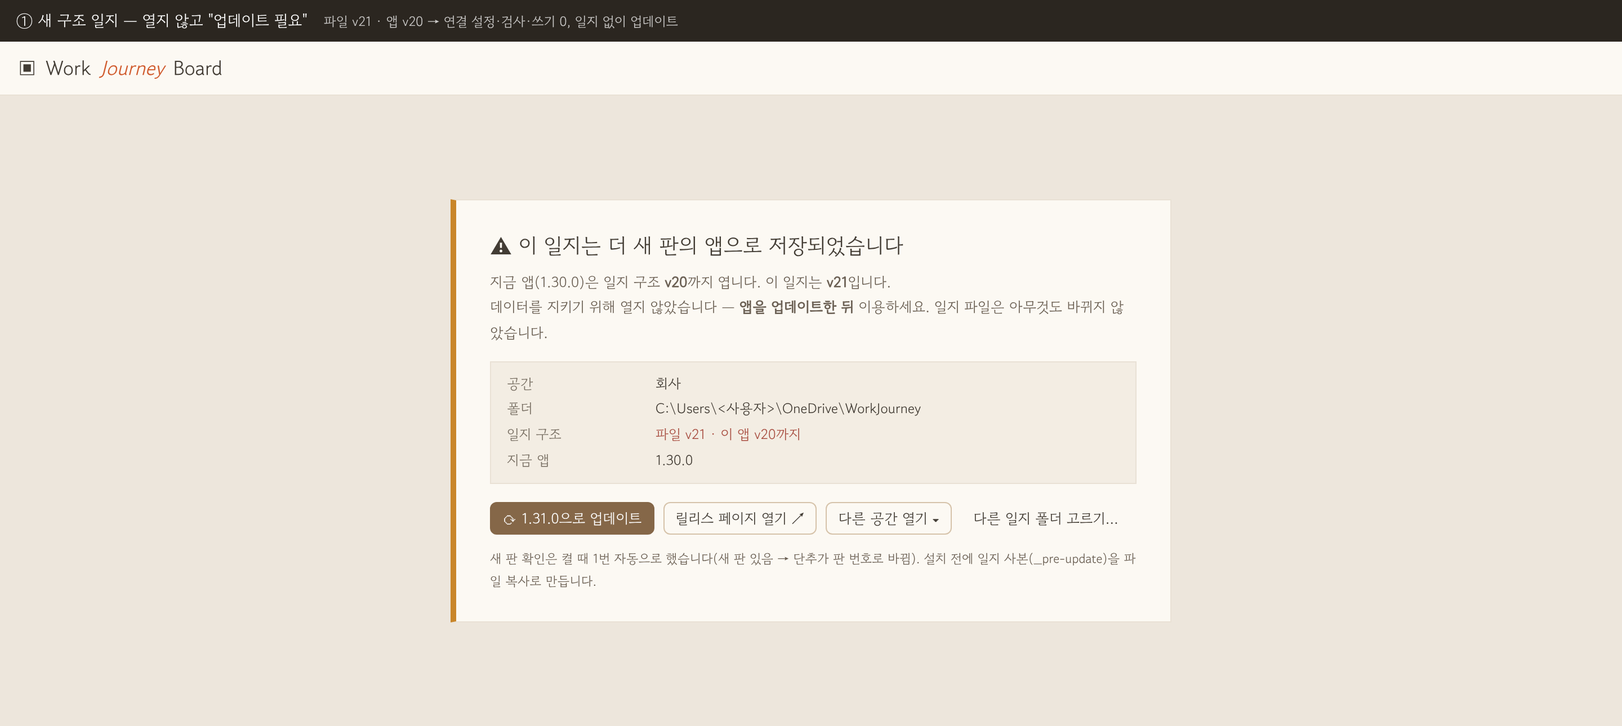
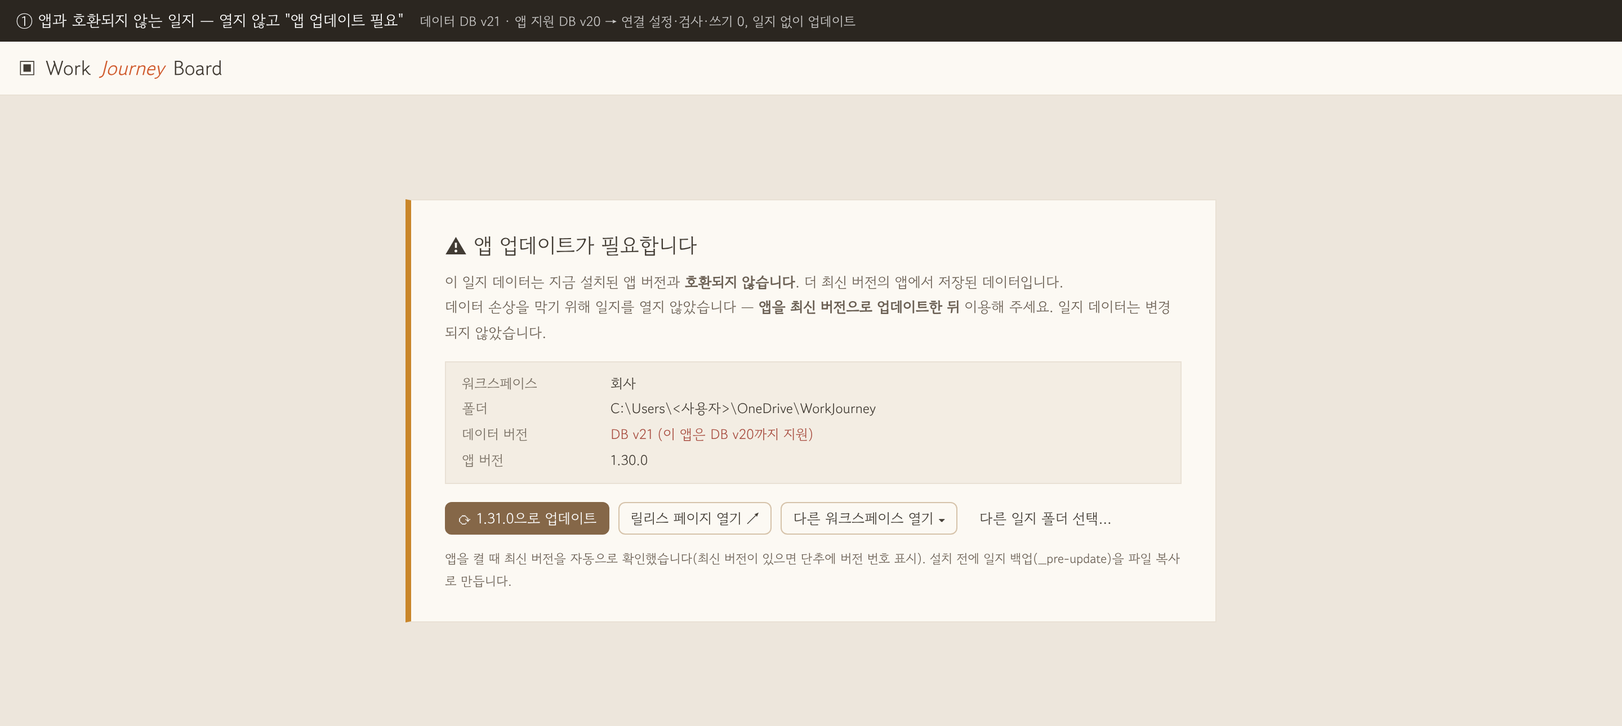
docs(v22): 최종 설계 확정 — 호환 안내 문구·칸반 제목 제거·시작 시간/마감일 별도 행·업무 거르기(전체/1개/여러 개) 시안 ⑧
Claude-Session: https://claude.ai/code/session_01CEskZPS32ZwwyCurFibJtk

diff --git a/docs/mockups/v22/v22.html b/docs/mockups/v22/v22.html
@@ -134,10 +134,10 @@
   .catband { display: flex; align-items: center; gap: 10px; padding: 10px 12px; border-left: 6px solid var(--c2); background: #fdeee6; font-size: 16px; margin: -4px 0 12px; }
   .catband .dotb { width: 11px; height: 11px; border-radius: 50%; background: var(--c2); }
   .catband small { margin-left: auto; color: var(--t3); font-size: 12px; }
-  .fieldbtn { border: 1px solid var(--line2); background: #fff; border-radius: 6px; padding: 4px 10px; font-size: 12.5px; color: var(--t2); display: inline-flex; gap: 6px; align-items: center; }
+  .fieldbtn { white-space: nowrap; border: 1px solid var(--line2); background: #fff; border-radius: 6px; padding: 4px 10px; font-size: 12.5px; color: var(--t2); display: inline-flex; gap: 6px; align-items: center; }
   .fieldbtn.has { border-color: #e0b070; background: #fdf3e0; color: #8a5a12; }
   .lockscr { background: var(--page); display: flex; align-items: center; justify-content: center; height: 560px; }
-  .lockcard { background: var(--card); border: 1px solid var(--line); border-left: 5px solid #c9862a; width: 640px; padding: 26px 30px; }
+  .lockcard { background: var(--card); border: 1px solid var(--line); border-left: 5px solid #c9862a; width: 720px; padding: 26px 30px; }
   .lockcard h2 { margin: 0 0 8px; font-size: 19px; font-weight: 400; }
   .lockcard p { color: var(--t2); margin: 0 0 14px; line-height: 1.7; }
   .kv { display: grid; grid-template-columns: 120px 1fr; gap: 4px 12px; font-size: 12.5px; background: var(--sub); border: 1px solid var(--line); padding: 10px 14px; margin-bottom: 16px; }
@@ -164,17 +164,17 @@
 <body>
 <!-- ① 업데이트 필요 -->
 <div class="shot" id="s1">
-  <div class="cap">① 새 구조 일지 — 열지 않고 "업데이트 필요" <small>파일 v21 · 앱 v20 → 연결 설정·검사·쓰기 0, 일지 없이 업데이트</small></div>
+  <div class="cap">① 앱과 호환되지 않는 일지 — 열지 않고 "앱 업데이트 필요" <small>데이터 DB v21 · 앱 지원 DB v20 → 연결 설정·검사·쓰기 0, 일지 없이 업데이트</small></div>
   <div class="brand">▣ <b>Work</b> <i>Journey</i> <b>Board</b></div>
   <div class="lockscr">
     <div class="lockcard">
-      <h2>⚠ 이 일지는 더 새 판의 앱으로 저장되었습니다</h2>
-      <p>지금 앱(1.30.0)은 일지 구조 <b>v20</b>까지 엽니다. 이 일지는 <b>v21</b>입니다.<br>데이터를 지키기 위해 열지 않았습니다 — <b>앱을 업데이트한 뒤</b> 이용하세요. 일지 파일은 아무것도 바뀌지 않았습니다.</p>
-      <div class="kv"><b>공간</b><span>회사</span><b>폴더</b><span>C:\Users\&lt;사용자&gt;\OneDrive\WorkJourney</span><b>일지 구조</b><span class="bad">파일 v21 · 이 앱 v20까지</span><b>지금 앱</b><span>1.30.0</span></div>
+      <h2>⚠ 앱 업데이트가 필요합니다</h2>
+      <p>이 일지 데이터는 지금 설치된 앱 버전과 <b>호환되지 않습니다</b>. 더 최신 버전의 앱에서 저장된 데이터입니다.<br>데이터 손상을 막기 위해 일지를 열지 않았습니다 — <b>앱을 최신 버전으로 업데이트한 뒤</b> 이용해 주세요. 일지 데이터는 변경되지 않았습니다.</p>
+      <div class="kv"><b>워크스페이스</b><span>회사</span><b>폴더</b><span>C:\Users\&lt;사용자&gt;\OneDrive\WorkJourney</span><b>데이터 버전</b><span class="bad">DB v21 (이 앱은 DB v20까지 지원)</span><b>앱 버전</b><span>1.30.0</span></div>
       <div style="display:flex;gap:8px;align-items:center">
-        <span class="btn pri">⟳ 1.31.0으로 업데이트</span><span class="btn">릴리스 페이지 열기 ↗</span><span class="btn">다른 공간 열기 ▾</span><span class="btn ghost">다른 일지 폴더 고르기…</span>
+        <span class="btn pri">⟳ 1.31.0으로 업데이트</span><span class="btn">릴리스 페이지 열기 ↗</span><span class="btn">다른 워크스페이스 열기 ▾</span><span class="btn ghost">다른 일지 폴더 선택…</span>
       </div>
-      <p class="hint" style="margin:12px 0 0">새 판 확인은 켤 때 1번 자동으로 했습니다(새 판 있음 → 단추가 판 번호로 바뀜). 설치 전에 일지 사본(_pre-update)을 파일 복사로 만듭니다.</p>
+      <p class="hint" style="margin:12px 0 0">앱을 켤 때 최신 버전을 자동으로 확인했습니다(최신 버전이 있으면 단추에 버전 번호 표시). 설치 전에 일지 백업(_pre-update)을 파일 복사로 만듭니다.</p>
     </div>
   </div>
 </div>
@@ -184,7 +184,6 @@
   <div class="cap">② 섹션 머리를 끌어 순서 바꾸기 · ④ 상단을 주간 보드처럼 한 줄로 <small>"보류" 섹션을 "검토 중" 앞으로 끄는 중 — 들어갈 자리에 세로 표시선 · TODO 맨 앞·DONE 맨 끝 고정(추천)</small></div>
   <div class="brand">▣ <b>Work</b> <i>Journey</i> <b>Board</b></div>
   <div class="tb">
-    <h1>칸반 보드</h1>
     <span class="btn">업무: 전체 ▾</span>
     <span class="iseg"><span class="ico">▣</span><span class="ico on">▤</span><span class="gp"></span><span class="ico">②</span><span class="ico">④</span><span class="ico">⑫</span><span class="gp"></span><span class="ico">∞</span><span class="ico">[ ]</span></span>
     <span class="sp"></span>
@@ -221,7 +220,7 @@
 <div class="shot" id="s3">
   <div class="cap">③ 배치 모드 — 자유 배치 <small>머리 = 위치 이동, 오른쪽 아래 모서리 = 크기 · 8px 격자 · [배치 초기화] · 균등 분할과 아이콘 단추로 전환</small></div>
   <div class="tb">
-    <h1>칸반 보드</h1><span class="btn">업무: 전체 ▾</span>
+    <span class="btn">업무: 전체 ▾</span>
     <span class="iseg"><span class="ico">▣</span><span class="ico on">▤</span><span class="gp"></span><span class="ico">②</span><span class="ico">④</span><span class="ico">⑫</span><span class="gp"></span><span class="ico">∞</span><span class="ico">[ ]</span></span>
     <span class="sp"></span><span class="iseg"><span class="ico" title="균등 분할">⊞</span><span class="ico on" title="자유 배치">▦</span></span><span class="btn ghost">배치 초기화</span>
     <span class="btn">⊞ 업무 추가</span><span class="btn">▥ 섹션 추가</span><span class="saved">✓ 저장됨</span>
@@ -247,21 +246,22 @@
   <div class="tb" style="background:var(--page)"><span class="btn">업무: 전체 ▾</span><span class="iseg"><span class="ico">▣</span><span class="ico on">▤</span><span class="ico">②</span><span class="ico">④</span><span class="ico">⑫</span><span class="ico">∞</span><span class="ico">[ ]</span></span><span class="sp"></span><span class="btn">≡+ 업무 항목 추가</span><span class="btn">▥ 섹션 추가</span></div>
   <div style="padding:12px 16px;color:var(--t3);font-size:12px">참고 — 주간 보드</div>
   <div class="tb"><span class="btn">◀</span><h1>2026-W43 (10/19~10/25)</h1><span class="btn">▶</span><span class="btn">오늘</span><span class="btn">연간 보기</span><span class="sp"></span><span class="btn">🔍 검색</span><span class="btn">태그: 전체 ▾</span><span class="btn">⊞ 업무 추가</span><span class="btn">▤ 주간 요약</span><span class="btn">⤓ 내보내기</span><span class="saved">✓ 저장됨</span></div>
-  <div style="padding:12px 16px;color:var(--acc);font-size:12px">개선 — 칸반 (한 줄, 판 높이 +44px)</div>
-  <div class="tb"><h1>칸반 보드</h1><span class="btn">업무: 전체 ▾</span><span class="iseg"><span class="ico">▣</span><span class="ico on">▤</span><span class="gp"></span><span class="ico">②</span><span class="ico">④</span><span class="ico">⑫</span><span class="gp"></span><span class="ico">∞</span><span class="ico">[ ]</span></span><span class="sp"></span><span class="btn">🔍 검색</span><span class="btn">태그: 전체 ▾</span><span class="iseg"><span class="ico on">⊞</span><span class="ico">▦</span></span><span class="btn">⊞ 업무 추가</span><span class="btn">▥ 섹션 추가</span><span class="saved">✓ 저장됨</span></div>
+  <div style="padding:12px 16px;color:var(--acc);font-size:12px">개선 — 칸반 (한 줄, 판 높이 +44px · "칸반 보드" 제목 없음 — 레일 강조로 위치 표시)</div>
+  <div class="tb"><span class="btn">업무: 전체 ▾</span><span class="iseg"><span class="ico">▣</span><span class="ico on">▤</span><span class="gp"></span><span class="ico">②</span><span class="ico">④</span><span class="ico">⑫</span><span class="gp"></span><span class="ico">∞</span><span class="ico">[ ]</span></span><span class="sp"></span><span class="btn">🔍 검색</span><span class="btn">태그: 전체 ▾</span><span class="iseg"><span class="ico on">⊞</span><span class="ico">▦</span></span><span class="btn">⊞ 업무 추가</span><span class="btn">▥ 섹션 추가</span><span class="saved">✓ 저장됨</span></div>
   <div style="height:16px"></div>
 </div>
 
 <!-- ⑤ 카드 추가 창 -->
 <div class="shot" id="s5">
-  <div class="cap">⑤ 카드 추가 창 <small>맨 위 업무 띠(업무 색·크게) · 시작 시각·마감일 글자 단추 · [취소] → [닫기]</small></div>
+  <div class="cap">⑤ 카드 추가 창 <small>맨 위 업무 띠(업무 색·크게) · 시작 시간·마감일을 각각 별도 행 · [취소] → [닫기]</small></div>
   <div class="dimwrap">
     <div class="dlg" style="width:600px">
       <h2>카드 추가 <span class="hint">— TODO</span></h2>
       <div class="catband"><span class="dotb"></span>협력사 보안 점검 ▾<small>어느 업무의 카드인지 먼저 확인</small></div>
       <div class="fr"><label>날짜</label><span><span class="inp">2026-10-22 📅</span> <span class="hint">10/22 (목)</span> <span class="btn">오늘</span> <span class="btn">내일</span> <span class="btn">다음 주 월</span></span></div>
       <div class="fr"><label>섹션</label><span><span class="btn on">TODO</span> <span class="btn">검토 중</span> <span class="btn">보류</span></span></div>
-      <div class="fr"><label>시작·마감</label><span style="display:flex;gap:8px"><span class="fieldbtn has">⏰ 09:30 <span class="hint">×</span></span><span class="fieldbtn">⏳ 마감일 —</span></span></div>
+      <div class="fr"><label>시작 시간</label><span style="display:flex;gap:8px;align-items:center"><span class="fieldbtn has">⏰ 09:30 <span class="hint">×</span></span><span class="hint">15분 단위 · 그날 일정의 시작</span></span></div>
+      <div class="fr"><label>마감일</label><span style="display:flex;gap:8px;align-items:center"><span class="fieldbtn">⏳ 마감일 정하기</span><span class="btn">이번 주 금</span><span class="btn">다음 주 금</span><span class="hint">정하면 ★ 함께 · 중요 업무 목록 "마감일이 있는 업무"</span></span></div>
       <div class="fr" style="align-items:start"><label>내용</label><div class="ed"><div class="r">• B협력사 현장 점검 일정 조율<span class="cur"></span> <span class="tg">⏰ 09:30</span></div><div class="r sub">◦ 담당자 연락처 확인</div></div></div>
       <div class="acts"><span class="hint" style="margin-right:auto">Enter 다음 항목 · Tab 세부 · Alt+O 시작 · Alt+U 마감 · Ctrl+Enter 추가</span><span class="btn">닫기</span><span class="btn">추가하고 계속</span><span class="btn pri">추가</span></div>
     </div>
@@ -315,6 +315,41 @@
         <div class="row"><span class="dlb"><b>목</b><small>10/22</small></span><span></span><span class="tx">점검 결과 보고서 초안 작성</span><span></span><span></span></div></div>
       <span class="guide" style="left:12px"></span><span class="guide" style="left:110px"></span><span class="guide" style="left:calc(100% - 210px)"></span>
       <div class="callout" style="right:20px;bottom:-18px">점선 = 세로 정렬선: 요일 · 항목 글 · 완료일 열이 모든 주·모든 줄에서 같음</div>
+    </div>
+  </div>
+</div>
+
+<!-- ⑧ 업무 거르기 -->
+<div class="shot" id="s8">
+  <div class="cap">⑧ 업무 거르기 — 전체 · 업무 1개 · 여러 업무 <small>단추 글자로 지금 범위 표시 · 줄 오른쪽 [이것만] = 1개만 · 체크 = 여러 개 · [전체 업무]로 되돌림</small></div>
+  <div style="display:flex;gap:40px;padding:18px 24px 6px;align-items:center">
+    <span><span class="hint">전체 &nbsp;</span><span class="btn">업무: 전체 ▾</span></span>
+    <span><span class="hint">1개 &nbsp;</span><span class="btn on"><span class="dot" style="background:var(--c2);margin:0"></span> 협력사 보안 점검 ▾</span></span>
+    <span><span class="hint">여러 개 &nbsp;</span><span class="btn on">업무: 2개 선택 ▾</span> <span class="hint">마우스를 올리면 이름 목록</span></span>
+  </div>
+  <div style="display:flex;gap:40px;padding:14px 24px 26px;align-items:flex-start">
+    <div style="position:relative;width:340px;height:330px">
+      <span class="btn on">업무: 2개 선택 ▾</span>
+      <div class="menu" style="top:36px;left:0;width:320px;padding:8px">
+        <div style="padding:6px 10px"><span><span class="rb" style="display:inline-block;margin-right:6px;vertical-align:-2px"></span>전체 업무</span><span class="k">4개</span></div>
+        <hr>
+        <div class="hd">업무를 고르세요 — 체크 = 여러 개 · [이것만] = 1개</div>
+        <div style="padding:6px 10px;background:var(--accsoft)"><span><span class="chk on" style="display:inline-grid;margin-right:6px;vertical-align:-2px">✓</span><span class="dot" style="background:var(--c1);margin:0 4px 0 0"></span>차세대 정산 시스템 구축</span><span class="k">이것만</span></div>
+        <div style="padding:6px 10px;background:var(--accsoft)"><span><span class="chk on" style="display:inline-grid;margin-right:6px;vertical-align:-2px">✓</span><span class="dot" style="background:var(--c2);margin:0 4px 0 0"></span>협력사 보안 점검</span><span class="k">이것만</span></div>
+        <div style="padding:6px 10px"><span><span class="chk" style="display:inline-grid;margin-right:6px;vertical-align:-2px"></span><span class="dot" style="background:var(--c3);margin:0 4px 0 0"></span>사내 데이터 대시보드</span><span class="k">이것만</span></div>
+        <div style="padding:6px 10px"><span><span class="chk" style="display:inline-grid;margin-right:6px;vertical-align:-2px"></span><span class="dot" style="background:var(--c4);margin:0 4px 0 0"></span>신규 입사자 온보딩</span><span class="k">이것만</span></div>
+        <hr>
+        <div style="padding:6px 10px"><span><span class="chk" style="display:inline-grid;margin-right:6px;vertical-align:-2px"></span>종료된 업무도 보기</span><span class="k">선택 해제</span></div>
+      </div>
+    </div>
+    <div class="box" style="width:520px;line-height:1.9">
+      <b style="font-weight:400">동작</b><br>
+      · <b style="font-weight:400">전체 업무</b>: 모든 진행 중 업무(기본). 다른 줄을 하나라도 체크하면 자동으로 풀림.<br>
+      · <b style="font-weight:400">이것만</b>(줄 오른쪽, 마우스를 올리면 보임): 그 업무 1개만 — 단추가 업무 색 점 + 이름으로.<br>
+      · <b style="font-weight:400">체크</b>: 여러 업무를 고름 — 단추 "업무: N개 선택", 마우스를 올리면 이름 목록. 체크를 모두 풀면 전체로.<br>
+      · 고른 범위는 칸반의 모든 섹션·DONE·일괄 완료 대상에 같이 적용, 공간마다 기억(지금 설정 <code>ui.kanban.categories</code>).<br>
+      · 거르는 중이면 단추를 강조색 바탕으로 — 전체 보기와 한눈에 구분.<br>
+      · 키보드: ↑↓ 이동 · Space 체크 · Enter 이것만 · Esc 닫기
     </div>
   </div>
 </div>

diff --git a/docs/improve-v22-spec.md b/docs/improve-v22-spec.md
@@ -1,17 +1,18 @@
 # 개선 v22 — DB 버전 차단 · 칸반 보드 다듬기 · 업무 타임라인 정렬 (상세 설계)
 
-> 2026-11-12 작성 · 작업 브랜치 `improve-v22` · 기준 판 1.30.0(구조 v20) · **상태: 설계·시안 검토 대기**
-> 시안: `docs/mockups/v22/`(①~⑦ PNG, 원본 `v22.html` — 가상 샘플만)
+> 2026-11-12 작성 · 작업 브랜치 `improve-v22` · 기준 판 1.30.0(구조 v20) · **상태: 2026-11-12 최종 설계 확정(추천안 전체 + 사용자 추가 4건 — 13절) · 구현 진행**
+> 시안: `docs/mockups/v22/`(①~⑧ PNG, 원본 `v22.html` — 가상 샘플만)
 
 ## 0. 요약
 
 | # | 내용 | 구분 |
 |---|---|---|
-| A | 일지 DB 구조가 앱이 아는 것보다 **새 판이면 열지 않고 "업데이트 필요" 화면**으로 — 쓰기 0, 업데이트 후 이용 | 데이터 안전 |
+| A | 일지 데이터(DB 버전)가 지금 앱 버전과 **호환되지 않으면 열지 않고 "앱 업데이트 필요" 화면**으로 — 쓰기 0, 업데이트 후 이용 | 데이터 안전 |
 | K1 | 칸반 섹션 **머리를 끌어 순서 바꾸기**(Trello 방식) | 새 기능 |
 | K2 | 칸반 **배치 모드 2가지** — 균등 분할(지금) / 자유 배치(섹션 크기·위치 자유) | 새 기능 |
 | K3 | 오른쪽 위 [업무 항목 추가] → **[업무 추가]**(주간 보드와 같은 업무 카테고리 추가) | 개선 |
-| K4 | 카드 추가 창 — [취소]→[닫기], **업무 선택 강조**, **시작 시각·마감일** 바로 설정 | 개선 |
+| K4 | 카드 추가 창 — [취소]→[닫기], **업무 선택 강조**, **시작 시간·마감일을 각각 별도 행**으로 바로 설정 | 개선 |
+| K7 | 칸반 업무 거르기 — **전체 / 업무 1개 / 여러 업무** 세 범위를 분명하게 | 개선 |
 | K5 | DONE으로 옮기는 순간 **완료 축하 모션** | 새 기능 |
 | K6 | 칸반 상단 거르기·단추 배치를 **주간 보드와 통일**(한 줄) | 개선 |
 | T | 업무 타임라인 — 이번 주/지난 주 **가로 정렬**, **요일 표시** 정돈·여백, **완료일은 항목 뒤 한 열로 정렬**, 기간(주차) 드롭다운 구분 색 | 개선 |
@@ -33,11 +34,13 @@
 - **열려 있는 동안 다른 PC(동기화 폴더)에서 새 판이 올린 경우**: 창이 다시 활성화될 때·자동 백업 직전에 같은 값을 읽어(가벼운 SELECT 1회) 새 구조면 예약 저장을 버리지 않고 멈춘 뒤 같은 화면으로 바꾼다(쓰기 중단). — 결정 A2
 
 ### 2-2. "업데이트 필요" 화면
-- 보드 자리 전체: 제목 **"이 일지는 더 새 판의 앱으로 저장되었습니다"**, 설명 "지금 앱(1.30.0)은 일지 구조 v20까지 엽니다. 이 일지는 v21입니다. 데이터를 지키기 위해 열지 않았습니다 — 앱을 업데이트한 뒤 이용하세요."
-- 정보: 공간 이름·폴더 경로·일지 구조(파일 v21 / 앱 v20)·지금 앱 판.
-- 단추: **[업데이트 확인]**(주 단추 — 일지 없이도 새 판 확인·내려받기·SHA256 확인·설치. 설치 전 백업은 연결을 열지 않는 파일 복사 `_pre-update`) · [릴리스 페이지 열기](기본 브라우저) · [다른 공간 열기](공간이 둘 이상일 때) · [다른 일지 폴더 고르기].
-- 앱을 켤 때 자동 새 판 확인(지금 규칙 그대로 1번)은 이 화면에서도 돈다 — 새 판이 있으면 단추가 "1.31.0으로 업데이트"로 바뀜.
-- 공간 전환으로 새 구조 공간을 고르면: 지금 공간은 **그대로** 두고 확인 창 "이 공간은 더 새 판의 앱으로 저장되었습니다 — [업데이트 확인] [닫기]".
+- 보드 자리 전체. 문구는 "일지 데이터와 앱 버전이 호환되지 않는다"는 뜻을 바로 전한다 — 외래어(앱·버전·데이터·DB·업데이트·워크스페이스)는 필요한 곳에 그대로 쓴다(2026-11-12 사용자 지시).
+  - 제목: **"앱 업데이트가 필요합니다"**
+  - 설명: "이 일지 데이터는 지금 설치된 앱 버전과 **호환되지 않습니다**. 더 최신 버전의 앱에서 저장된 데이터입니다. 데이터 손상을 막기 위해 일지를 열지 않았습니다 — 앱을 최신 버전으로 업데이트한 뒤 이용해 주세요. 일지 데이터는 변경되지 않았습니다."
+- 정보: 워크스페이스 이름·폴더 경로·**데이터 버전**(`DB v21 (이 앱은 DB v20까지 지원)`)·**앱 버전**.
+- 단추: **[업데이트 확인]**(주 단추 — 일지 없이도 최신 버전 확인·내려받기·SHA256 확인·설치. 설치 전 백업은 연결을 열지 않는 파일 복사 `_pre-update`) · [릴리스 페이지 열기](기본 브라우저) · [다른 워크스페이스 열기](둘 이상일 때) · [다른 일지 폴더 선택].
+- 앱을 켤 때 자동 최신 버전 확인(지금 규칙 그대로 1번)은 이 화면에서도 돈다 — 최신 버전이 있으면 단추가 "1.31.0으로 업데이트"로 바뀜.
+- 워크스페이스 전환으로 호환되지 않는 공간을 고르면: 지금 공간은 **그대로** 두고 확인 창 "이 워크스페이스의 데이터는 지금 앱 버전과 호환되지 않습니다 — [업데이트 확인] [닫기]".
 - 다른 공간 읽기(Universe)·백업 복원은 지금처럼 새 구조를 거부(문구만 같은 표현으로).
 
 ### 2-3. 시험
@@ -63,7 +66,7 @@
 
 ## 5. K3·K6 — 상단 배치 통일 (시안 ④)
 - 별도 도구 줄을 없애고 **주간 보드와 같은 한 줄 상단 막대**로:
-  - 왼쪽: `칸반 보드` 제목 · 업무 거르기 [업무: 전체 ▾] · 기간 아이콘 7개 · 지정일이면 날짜 두 칸
+  - 왼쪽: 업무 거르기 [업무: 전체 ▾](7절의 K7) · 기간 아이콘 7개 · 지정일이면 날짜 두 칸 — **"칸반 보드" 제목 글자는 두지 않음**(레일 강조로 위치가 보임, 2026-11-12 사용자 지시)
   - 오른쪽: 검색 · 태그 거르기(주간 보드와 같은 것, 칸반 카드에도 적용) · 배치 모드 아이콘 · **[업무 추가]**(주간 보드와 같은 아이콘·창 `AddCategoryDialog`) · [섹션 추가] · 저장됨
 - [업무 항목 추가] 단추는 없앰 — 카드는 각 섹션 [+ 카드 추가]와 `N`(TODO에 추가)으로.
 - 결과: 칸반 판 높이가 도구 줄만큼(약 44px) 늘어남.
@@ -71,8 +74,21 @@
 
 ## 6. K4 — 카드 추가 창 (시안 ⑤)
 - 맨 위 **업무 고르기 띠**: 업무 색 점 + 이름을 크게(16px), 업무 색 왼쪽 띠(직각)·옅은 업무 색 바탕, 누르면 업무 목록(색 점 포함). 창을 열 때 초점은 내용 칸이지만 업무 띠가 가장 먼저 보이게. 업무를 고르지 않으면 [추가] 잠김.
-- 날짜·섹션 줄 아래 **시작 시각 · 마감일** 칸을 글자 단추로: `⏰ 시작 시각 —` · `⏳ 마감일 —` → 누르면 지금의 고르기(15분 단위·날짜). 정한 값은 칩으로(×로 지움). 지금 줄의 본 항목에 적용, 줄마다 다르게 하려면 지금처럼 줄 ⏰⏳·`Alt+O`/`Alt+U`.
+- 날짜·섹션 줄 아래에 **두 행을 따로**(성격이 다르므로 — 2026-11-12 사용자 지시):
+  - **시작 시간** 행: `⏰ 시작 시간 정하기` → 15분 단위 고르기(그날 일정의 시작). 정하면 `⏰ 09:30 ×` 칩.
+  - **마감일** 행: `⏳ 마감일 정하기` + 빠른 단추 [이번 주 금]·[다음 주 금] → 날짜 고르기. 정하면 `⏳ 10/30(금) D-8 ×` 칩. 정하면 ★ 함께(지금 규칙) — 행 오른쪽에 안내.
+  - 둘 다 지금 줄(초점이 있는 본 항목)에 적용. 줄마다 다르게 하려면 지금처럼 줄 ⏰⏳·`Alt+O`/`Alt+U`.
 - 단추: [닫기] · [추가하고 계속] · [추가] — "취소"를 **"닫기"** 로(쓴 내용이 있으면 닫기 전 "쓴 내용을 버릴까요?" 확인은 지금 규칙 그대로).
+
+## 6-1. K7 — 업무 거르기: 전체 · 1개 · 여러 개 (시안 ⑧)
+- 지금도 데이터(`ui.kanban.categories` 배열, 비면 전체)는 세 경우를 다 담지만, 화면은 "모두 체크된 상태에서 끄기"라 1개만 보기가 번거롭고 단추가 `업무: N개`로만 보인다.
+- 단추 글자로 범위를 바로 보임: **`업무: 전체`** · 1개 = **업무 색 점 + 업무 이름** · 여러 개 = **`업무: N개 선택`**(마우스를 올리면 이름 목록). 거르는 중이면 단추를 강조색 옅은 바탕으로.
+- 펼침 목록:
+  - 맨 위 **(○) 전체 업무** — 누르면 전체로.
+  - 업무 줄: 체크 상자 = 여러 개 고르기(전체 상태에서 하나를 체크하면 "그 하나"부터 시작), 줄 오른쪽 **[이것만]**(마우스를 올리면) = 그 업무 1개만. 체크를 모두 풀면 전체로.
+  - 맨 아래 [종료된 업무도 보기].
+  - 키보드: ↑↓ 이동 · Space 체크 · Enter 이것만 · Esc 닫기.
+- 적용 범위: 모든 섹션·DONE·일괄 완료 대상. 공간마다 기억(지금과 같음, 구조 변경 없음).
 
 ## 7. K5 — 완료 축하 모션 (시안 ⑥)
 - 카드가 DONE에 들어가는 순간(끌어 놓기·`Alt+Shift+→`·카드 ✓·중요 업무 목록 ✓로 칸반이 보일 때): 카드 위에 **초록 체크가 커졌다 작아지고**(0.25s), 카드 둘레에서 **작은 색종이 12~16개가 튀었다 떨어짐**(0.9s, 앱 강조색·초록·노랑, CSS만 — 외부 라이브러리 없음). 그 뒤 DONE 줄로 접힘.
@@ -91,18 +107,18 @@
 
 ## 10. 무결성·시험
 - 전환 무결성(CLAUDE.md 4-7): 배치 모드·자유 배치 위치·섹션 순서를 바꾼 뒤 공간 3번 오가기 → 그 공간에만. 새 구조 공간으로 전환 시도 → 거부·원래 공간 그대로·저장소 개수 변화 없음.
-- e2e: 섹션 머리 끌기 순서·되돌리기, 자유 배치 이동·크기·초기화·다시 열기 유지, [업무 추가] 창, 카드 추가 창 업무 띠·시작 시각/마감일·[닫기], 완료 모션(동작 줄이기면 색종이 없음), 타임라인 정렬(이번 주·지난 주 같은 x 좌표, 완료일 칩 x 좌표 같음).
+- e2e: 업무 거르기 전체/이것만/여러 개·단추 글자, 섹션 머리 끌기 순서·되돌리기, 자유 배치 이동·크기·초기화·다시 열기 유지, [업무 추가] 창, 카드 추가 창 업무 띠·시작 시각/마감일·[닫기], 완료 모션(동작 줄이기면 색종이 없음), 타임라인 정렬(이번 주·지난 주 같은 x 좌표, 완료일 칩 x 좌표 같음).
 
 ## 11. 단계
 | 단계 | 내용 |
 |---|---|
 | V1 | A — 구조 판정 앞당김·업데이트 필요 화면·일지 없이 업데이트·공간 전환 거부·다시 활성화 검사·시험 |
-| V2 | K3·K6 상단 통일 · K4 카드 추가 창 · K1 섹션 머리 끌기 |
+| V2 | K3·K6 상단 통일(제목 글자 없음) · K7 업무 거르기 · K4 카드 추가 창(시작 시간·마감일 별도 행) · K1 섹션 머리 끌기 |
 | V3 | K2 배치 모드(균등/자유) · K5 완료 축하 모션 |
 | V4 | T 타임라인 정돈 |
 | V5 | e2e·전환 무결성·가이드(장면08·15·부록)·단축키 표·확인표 7-45·릴리스 노트·Feature List → 검증판 `1.31.0-rc.1` |
 
-## 12. 결정 항목 (추천안)
+## 12. 결정 항목 (2026-11-12 사용자 승인 — 추천안 전체)
 | # | 항목 | 추천 |
 |---|---|---|
 | A1 | 새 구조 일지 | **열지 않음(읽기 전용으로도 안 엶)** — 업데이트 필요 화면 + 일지 없이 업데이트 |
@@ -110,8 +126,17 @@
 | K1-a | 섹션 순서 범위 | **사용자 섹션만 자유, TODO 맨 앞·DONE 맨 끝 고정** (대안: 전부 자유) |
 | K2-a | 두 번째 배치 모드 | **자유 배치(위치·크기)** (대안: 열 폭 조절만) |
 | K2-b | 좁은 창에서 자유 배치 | **균등 분할로 보이기(저장값 유지)** |
-| K4 | 시작 시각·마감일 칸 | **창 위쪽 글자 단추 2개(지금 줄의 본 항목에) + 줄 아이콘 유지** |
+| K4 | 시작 시간·마감일 | **별도 행 2개(지금 줄의 본 항목에) + 줄 아이콘 유지** — 사용자 수정 |
 | K5 | 완료 축하 모션 | **기본 켜짐 + 설정에서 끄기, 동작 줄이기면 체크만** |
 | K6 | 칸반 상단에 태그 거르기 | **넣음(주간 보드와 같은 위치·동작)** |
 | T1 | "주차 드롭리스트" | **상단 [기간: 최근 12주 ▾] 드롭다운**으로 이해 |
 | V | 판 번호 | **1.31.0**(검증판 `1.31.0-rc.1` → 승인 뒤 main) |
+
+## 13. 사용자 추가 개선 (2026-11-12 — 최종 설계에 반영)
+| # | 요청 | 반영 |
+|---|---|---|
+| U1 | "이 일지는 더 새 판…" 문장이 어색 — 일지 데이터와 앱 버전이 호환되지 않는다는 뜻만 전하고, 외래어를 억지로 순수 한글로 바꾸지 말 것 | 2-2 문구 교체("앱 업데이트가 필요합니다" · "이 일지 데이터는 지금 설치된 앱 버전과 호환되지 않습니다"), 데이터 버전/앱 버전·워크스페이스 표기 — 시안 ① |
+| U2 | 칸반 상단 왼쪽 "칸반 보드" 제목 글자 불필요 | 5절 — 제목 없이 업무 거르기부터 — 시안 ②·③·④ |
+| U3 | 카드 추가 창의 시작 시간과 마감일은 결이 달라 별도 행으로 | 6절 — 시작 시간 행 / 마감일 행(빠른 단추·★ 안내) — 시안 ⑤ |
+| U4 | 칸반 업무 거르기 = 전체 · 특정 업무 1개 · 임의로 고른 여러 업무, 시안 요청 | 6-1절 K7 — 시안 ⑧ |
+- 이 문서의 표기 원칙도 같이: 앱 화면 글은 뜻이 바로 통하는 말을 우선하고, 앱·버전·데이터·업데이트·워크스페이스처럼 굳은 외래어는 그대로 쓴다.

diff --git a/CLAUDE.md b/CLAUDE.md
@@ -12,7 +12,7 @@
   | `overview.md` | 요구사항·결정 이력·**10절 화면 구성**·**12절 인계 명세** |
   | `improve-v20-spec.md` | 개선 v20: 업무노트 삭제 잠금(구조 v19)·삭제 최종 확인 창·노트 복제·끌기 손잡이 아이콘, 노트 표 전체 끌기·열 너비 ↔ 커서·행/열 이동 표시선, 새 판 확인 403 대응(ETag·오류 구분·`releases/latest` 대체 경로는 승인 필요) — 2026-11-09 승인(D1~D9 추천안, D8 대체 경로 포함) · 작업 브랜치 `improve-v20` 구현(10절, 검증용 `1.24.0-rc.1`, 구조 v19) → **`v1.24.0` main 반영(2026-11-09)** · 시안 `docs/mockups/v20/` |
   | `improve-v21-spec.md` | 개선 v21: **칸반 보드**(레일 주간 보드↔인사이트 사이·Alt+6, TODO/사용자 섹션/DONE, 카드 끌어 놓기 상태 변경·상태 이력·세부 자동 완료, 항목 추가 창, 일괄 완료, Cabi 끌기, 시작 화면 설정, 구조 v20) · 인사이트 타임라인 요일 묶음·실제 완료일 — 2026-11-12 승인(D5 기간 사용자 수정, 나머지 추천안) · 작업 브랜치 `improve-v21` 구현(14절 — Cabi.NET은 줄 → 카드 연결만, 검증용 `1.25.0-rc.1` → 기간 아이콘·단추 통일·섹션 무채색 `1.25.0-rc.2`, 구조 v20) → **`v1.30.0` main 반영(2026-11-12)** · 시안 `docs/mockups/v21/` |
-  | `improve-v22-spec.md` | 개선 v22: 새 구조 일지는 열지 않고 "업데이트 필요" 화면(쓰기 0, 일지 없이 업데이트)·칸반 섹션 머리 끌기 순서·배치 모드(균등/자유)·[업무 추가] 통일·카드 추가 창(업무 띠·시작/마감·닫기)·완료 축하 모션·상단 한 줄 통일·업무 타임라인 정렬(요일·완료일 열·기간 드롭다운) — 2026-11-12 설계·시안 검토 대기 · 작업 브랜치 `improve-v22` · 시안 `docs/mockups/v22/` |
+  | `improve-v22-spec.md` | 개선 v22: 새 구조 일지는 열지 않고 "업데이트 필요" 화면(쓰기 0, 일지 없이 업데이트)·칸반 섹션 머리 끌기 순서·배치 모드(균등/자유)·[업무 추가] 통일·카드 추가 창(업무 띠·시작/마감·닫기)·완료 축하 모션·상단 한 줄 통일(제목 없음)·업무 거르기 전체/1개/여러 개·업무 타임라인 정렬(요일·완료일 열·기간 드롭다운) — 2026-11-12 최종 설계 확정(추천안 + 사용자 추가 4건) · 작업 브랜치 `improve-v22` · 시안 `docs/mockups/v22/` |
   | `release-notes/v1.30.0.md` | v21 정식판 — 칸반 보드·타임라인 요일 묶음·실제 완료일, 구조 v20, 이전 main 1.24.3은 `release/v1.24.3` 보존 |
   | `release-notes/v1.24.3.md` | main 직접 패치 — 메모 보드 크게 보기에서 왼쪽 도구 팔레트가 레일 자리로 붙던 문제(`.dockExpanded` 기준 상자 `position: relative`), DB19 유지 |
   | `release-notes/v1.24.2.md` | main 직접 패치 — 메모 사진 크게 보기를 `<dialog>.showModal()` 최상위 레이어로(뒤 화면 inert·전역 단축키 차단)·데일리 뷰 [전체 가져오기] 단추 제거, DB19 유지 |
